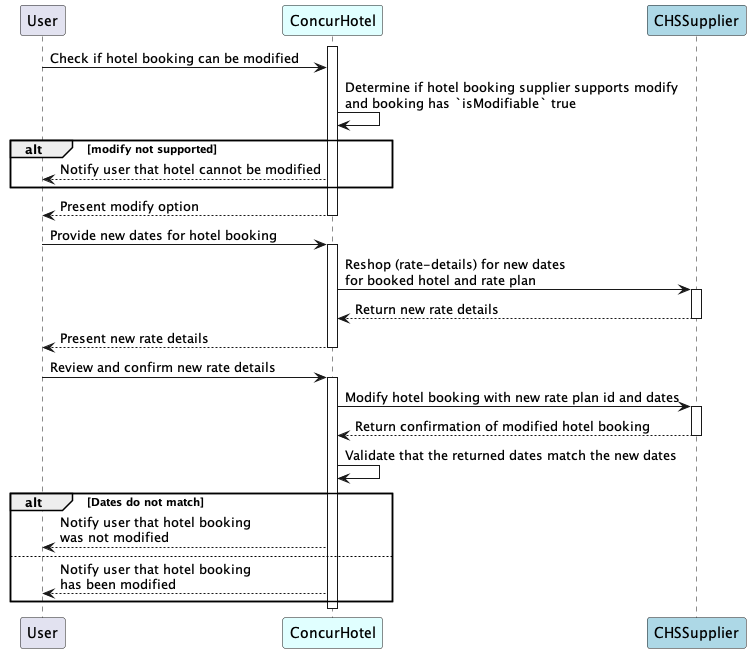
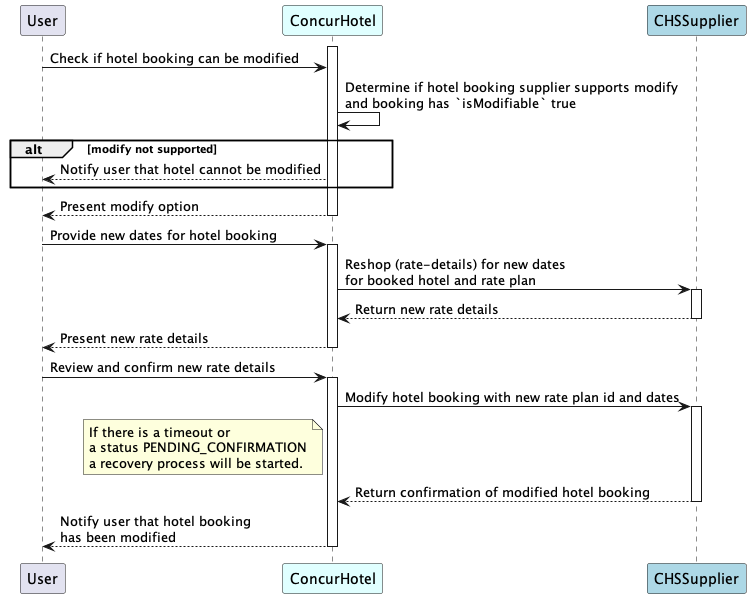
Updating docs to make it clearer

diff --git a/src/api-reference/direct-connects/hotel-service-4/v4.hotel-modify-booking.md b/src/api-reference/direct-connects/hotel-service-4/v4.hotel-modify-booking.md
@@ -32,7 +32,8 @@ Below is the sequence diagram for the flow:
 In the case of a request timed out, SAP Concur will start a recovery process, in wich SAP Concur will try to confirm the status of the booking.
 Also if the supplier identifies that the modification cannot be confirmed in a timely manner, it can return a `PENDING_CONFIRMATION` status in the response to the [modify](./v4.endpoints.html#modify-) request. In this case SAP Concur will also start a recovery process to confirm the status of the booking.
 
-In the process of recovery, SAP Concur will invoke the [read](./v4.endpoints.html#read-) endpoint to get the state of the modified booking. If the returned booking have a `RESERVED` status and have the new dates requested by the user, then the booking is marked as confirmed. If the returned booking have a `PENDING_CONFIRMATION` status, SAP Concur will continue to invoke the [read](./v4.endpoints.html#read-) endpoint until the endpoint return a booking with status `RESERVED`.
+In the process of recovery, SAP Concur will invoke the [read](./v4.endpoints.html#read-) endpoint to get the state of the modified booking. If the returned booking have a `RESERVED` status and have the new dates requested by the user, then the booking is marked as confirmed. If the returned booking have a `PENDING_CONFIRMATION` status, SAP Concur will continue to invoke the [read](./v4.endpoints.html#read-) endpoint until the endpoint return a booking with status `RESERVED` for a maximum of 1 day.
+If after 1 day the booking is still in `PENDING_CONFIRMATION` status, then SAP Concur will keep the booking status as Pending. When the user tries to view the booking, SAP Concur will call again the [read](./v4.endpoints.html#read-) endpoint to sink the status of the booking with the supplier.
 If the returned booking have status of `RESERVED` but the dates of check-in and check-out are not the same as the dates requested by the user, then SAP Concur will consider the modification as failed and will notify the user about it.
 
 Below is the sequence diagram for the recovery flow:
